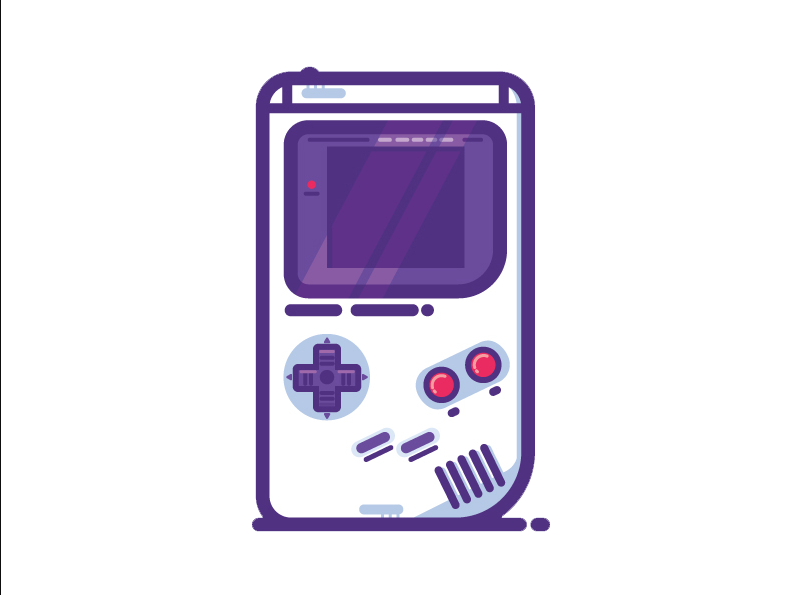
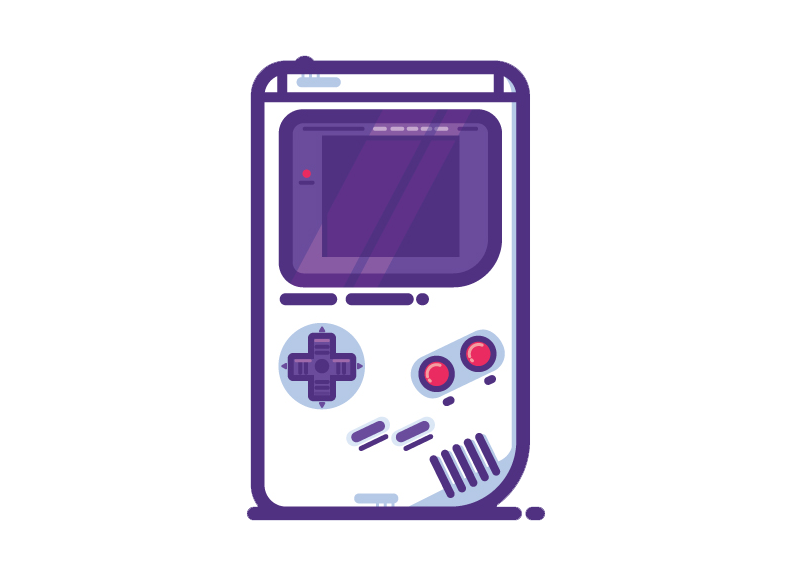
change

Changed region(s): [[0.305, 0.089, 0.7014, 0.9197], [0.3355, 0.5637, 0.4574, 0.712], [0.5794, 0.4747, 0.6099, 0.5044]]

diff --git a/games.html b/games.html
@@ -20,9 +20,9 @@
 			<div id="wrapper" class="fade-in">
 
 				<!-- Intro -->
-				<div id="intro" style="background-color: #B5C8E8;">
+				<div id="intro">
 					<div id="popup">
-					<a id ="popup" class="image fit" ><img src="images/gif03.webp" alt="Welcome" /></a>
+					<a id ="popup" class="image fit" ><img src="images/gif03.png" alt="Welcome" /></a>
 					</div>
 					<h1><a class="active">My Games</a></h1>
 					<p><b><i>HTML 5, CSS 3, .Net Framework, .Net Core MVC, NodeJS, Angular, JQuery, MSSQL, Azure, Plesk</b></i></p>

diff --git a/index.html b/index.html
@@ -85,7 +85,7 @@
 									<header>
 										<h2><a href="games.html">My Games</a></h2>
 									</header>
-									<a href="games.html" class="image fit"><img src="images/gif03.webp"  height="310px" alt="" /></a>
+									<a href="games.html" class="image fit"><img src="images/gif03.png"  height="310px" alt="" /></a>
 									<p>I have a lot of hobbies and I took a turn at making games.<br>
 										So take a look!.</p>
 								</article>

diff --git a/researchpapers.html b/researchpapers.html
@@ -27,7 +27,7 @@
 				<!-- Intro -->
 					<div id="intro">
 						<div id="popup">
-							<a id ="popup" class="image fit" ><img src="images/picintro.png" alt="Welcome" /></a>
+							<a id ="popup" class="image fit" ><img src="images/pic04.png" alt="Welcome" /></a>
 							</div>
 						<h1>My Research papers </h1>
 					</div>
